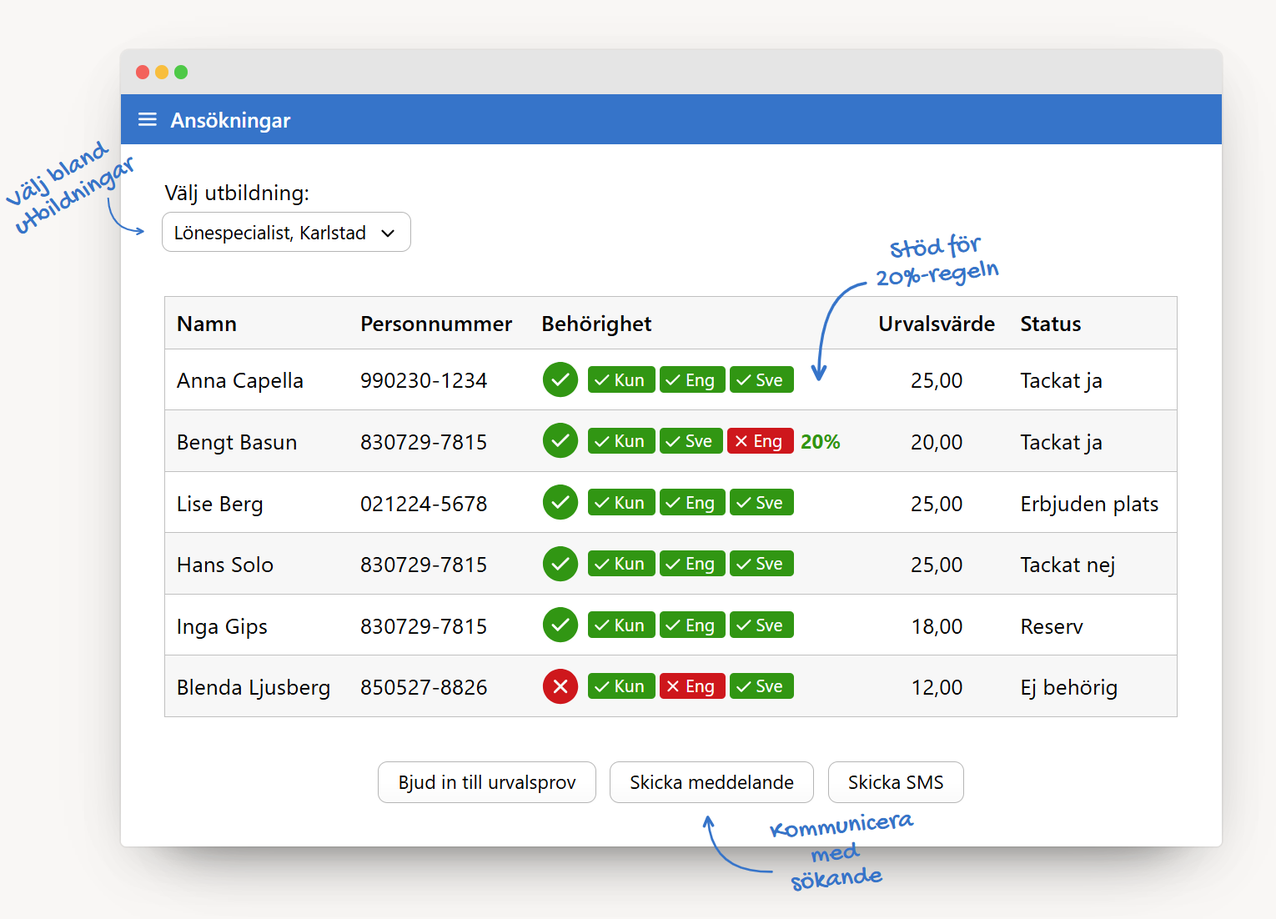
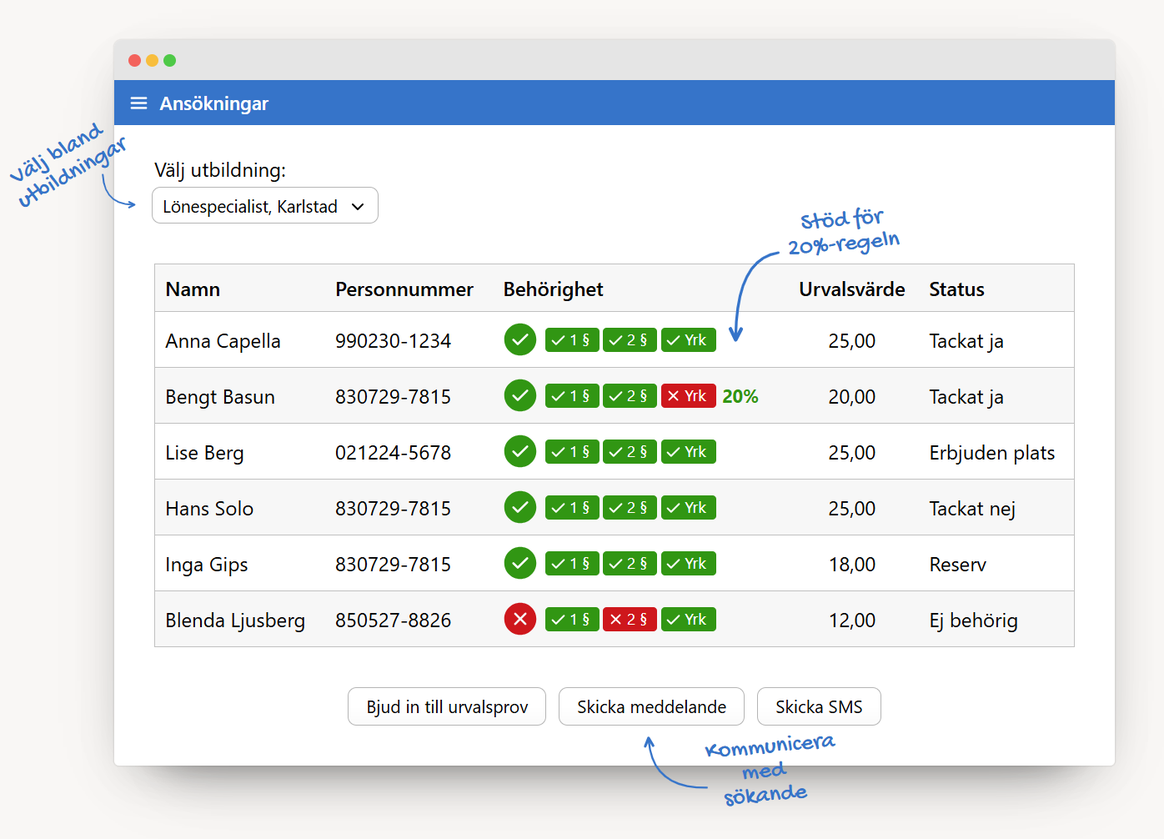
updated hero

diff --git a/docs/hero.html b/docs/hero.html
@@ -70,13 +70,13 @@
 
         .text.third {
             top: 30%;
-            left: 64%;
+            left: 63%;
             transform: rotate(-5deg);
         }
 
         .text-arrow.third svg {
             top: 34%;
-            left: 58%;
+            left: 57%;
             width: 75px;
             height: 75px;
         }
@@ -397,7 +397,7 @@
                                                 <svg xmlns="http://www.w3.org/2000/svg" viewBox="0 0 16 16" fill="currentColor" width="16" height="16">
                                                     <path d="M13.78 4.22a.75.75 0 0 1 0 1.06l-7.25 7.25a.75.75 0 0 1-1.06 0L2.22 9.28a.751.751 0 0 1 .018-1.042.751.751 0 0 1 1.042-.018L6 10.94l6.72-6.72a.75.75 0 0 1 1.06 0Z"></path>
                                                 </svg>
-                                                <span>Kun</span>
+                                                <span>1 §</span>
                                             </div>
                                         </div>
                                         <div>
@@ -405,7 +405,7 @@
                                                 <svg xmlns="http://www.w3.org/2000/svg" viewBox="0 0 16 16" fill="currentColor" width="16" height="16">
                                                     <path d="M13.78 4.22a.75.75 0 0 1 0 1.06l-7.25 7.25a.75.75 0 0 1-1.06 0L2.22 9.28a.751.751 0 0 1 .018-1.042.751.751 0 0 1 1.042-.018L6 10.94l6.72-6.72a.75.75 0 0 1 1.06 0Z"></path>
                                                 </svg>
-                                                <span>Eng</span>
+                                                <span>2 §</span>
                                             </div>
                                         </div>
                                         <div>
@@ -413,7 +413,7 @@
                                                 <svg xmlns="http://www.w3.org/2000/svg" viewBox="0 0 16 16" fill="currentColor" width="16" height="16">
                                                     <path d="M13.78 4.22a.75.75 0 0 1 0 1.06l-7.25 7.25a.75.75 0 0 1-1.06 0L2.22 9.28a.751.751 0 0 1 .018-1.042.751.751 0 0 1 1.042-.018L6 10.94l6.72-6.72a.75.75 0 0 1 1.06 0Z"></path>
                                                 </svg>
-                                                <span>Sve</span>
+                                                <span>Yrk</span>
                                             </div>
                                         </div>
                                     </div>
@@ -434,7 +434,7 @@
                                                 <svg xmlns="http://www.w3.org/2000/svg" viewBox="0 0 16 16" fill="currentColor" width="16" height="16">
                                                     <path d="M13.78 4.22a.75.75 0 0 1 0 1.06l-7.25 7.25a.75.75 0 0 1-1.06 0L2.22 9.28a.751.751 0 0 1 .018-1.042.751.751 0 0 1 1.042-.018L6 10.94l6.72-6.72a.75.75 0 0 1 1.06 0Z"></path>
                                                 </svg>
-                                                <span>Kun</span>
+                                                <span>1 §</span>
                                             </div>
                                         </div>
                                         <div>
@@ -442,7 +442,7 @@
                                                 <svg xmlns="http://www.w3.org/2000/svg" viewBox="0 0 16 16" fill="currentColor" width="16" height="16">
                                                     <path d="M13.78 4.22a.75.75 0 0 1 0 1.06l-7.25 7.25a.75.75 0 0 1-1.06 0L2.22 9.28a.751.751 0 0 1 .018-1.042.751.751 0 0 1 1.042-.018L6 10.94l6.72-6.72a.75.75 0 0 1 1.06 0Z"></path>
                                                 </svg>
-                                                <span>Sve</span>
+                                                <span>2 §</span>
                                             </div>
                                         </div>
                                         <div>
@@ -450,7 +450,7 @@
                                                 <svg xmlns="http://www.w3.org/2000/svg" viewBox="0 0 16 16" fill="currentColor" width="16" height="16">
                                                     <path d="M3.72 3.72a.75.75 0 0 1 1.06 0L8 6.94l3.22-3.22a.749.749 0 0 1 1.275.326.749.749 0 0 1-.215.734L9.06 8l3.22 3.22a.749.749 0 0 1-.326 1.275.749.749 0 0 1-.734-.215L8 9.06l-3.22 3.22a.751.751 0 0 1-1.042-.018.751.751 0 0 1-.018-1.042L6.94 8 3.72 4.78a.75.75 0 0 1 0-1.06Z"></path>
                                                 </svg>
-                                                <span>Eng</span>
+                                                <span>Yrk</span>
                                             </div>
                                         </div>
                                         <div style="font-size: .9em; color: rgb(1, 151, 1); font-weight:bold;padding-left:2px;">
@@ -474,7 +474,7 @@
                                                 <svg xmlns="http://www.w3.org/2000/svg" viewBox="0 0 16 16" fill="currentColor" width="16" height="16">
                                                     <path d="M13.78 4.22a.75.75 0 0 1 0 1.06l-7.25 7.25a.75.75 0 0 1-1.06 0L2.22 9.28a.751.751 0 0 1 .018-1.042.751.751 0 0 1 1.042-.018L6 10.94l6.72-6.72a.75.75 0 0 1 1.06 0Z"></path>
                                                 </svg>
-                                                <span>Kun</span>
+                                                <span>1 §</span>
                                             </div>
                                         </div>
                                         <div>
@@ -482,7 +482,7 @@
                                                 <svg xmlns="http://www.w3.org/2000/svg" viewBox="0 0 16 16" fill="currentColor" width="16" height="16">
                                                     <path d="M13.78 4.22a.75.75 0 0 1 0 1.06l-7.25 7.25a.75.75 0 0 1-1.06 0L2.22 9.28a.751.751 0 0 1 .018-1.042.751.751 0 0 1 1.042-.018L6 10.94l6.72-6.72a.75.75 0 0 1 1.06 0Z"></path>
                                                 </svg>
-                                                <span>Eng</span>
+                                                <span>2 §</span>
                                             </div>
                                         </div>
                                         <div>
@@ -490,7 +490,7 @@
                                                 <svg xmlns="http://www.w3.org/2000/svg" viewBox="0 0 16 16" fill="currentColor" width="16" height="16">
                                                     <path d="M13.78 4.22a.75.75 0 0 1 0 1.06l-7.25 7.25a.75.75 0 0 1-1.06 0L2.22 9.28a.751.751 0 0 1 .018-1.042.751.751 0 0 1 1.042-.018L6 10.94l6.72-6.72a.75.75 0 0 1 1.06 0Z"></path>
                                                 </svg>
-                                                <span>Sve</span>
+                                                <span>Yrk</span>
                                             </div>
                                         </div>
                                     </div>
@@ -512,7 +512,7 @@
                                                 <svg xmlns="http://www.w3.org/2000/svg" viewBox="0 0 16 16" fill="currentColor" width="16" height="16">
                                                     <path d="M13.78 4.22a.75.75 0 0 1 0 1.06l-7.25 7.25a.75.75 0 0 1-1.06 0L2.22 9.28a.751.751 0 0 1 .018-1.042.751.751 0 0 1 1.042-.018L6 10.94l6.72-6.72a.75.75 0 0 1 1.06 0Z"></path>
                                                 </svg>
-                                                <span>Kun</span>
+                                                <span>1 §</span>
                                             </div>
                                         </div>
                                         <div>
@@ -520,7 +520,7 @@
                                                 <svg xmlns="http://www.w3.org/2000/svg" viewBox="0 0 16 16" fill="currentColor" width="16" height="16">
                                                     <path d="M13.78 4.22a.75.75 0 0 1 0 1.06l-7.25 7.25a.75.75 0 0 1-1.06 0L2.22 9.28a.751.751 0 0 1 .018-1.042.751.751 0 0 1 1.042-.018L6 10.94l6.72-6.72a.75.75 0 0 1 1.06 0Z"></path>
                                                 </svg>
-                                                <span>Eng</span>
+                                                <span>2 §</span>
                                             </div>
                                         </div>
                                         <div>
@@ -528,7 +528,7 @@
                                                 <svg xmlns="http://www.w3.org/2000/svg" viewBox="0 0 16 16" fill="currentColor" width="16" height="16">
                                                     <path d="M13.78 4.22a.75.75 0 0 1 0 1.06l-7.25 7.25a.75.75 0 0 1-1.06 0L2.22 9.28a.751.751 0 0 1 .018-1.042.751.751 0 0 1 1.042-.018L6 10.94l6.72-6.72a.75.75 0 0 1 1.06 0Z"></path>
                                                 </svg>
-                                                <span>Sve</span>
+                                                <span>Yrk</span>
                                             </div>
                                         </div>
                                     </div>
@@ -549,7 +549,7 @@
                                                 <svg xmlns="http://www.w3.org/2000/svg" viewBox="0 0 16 16" fill="currentColor" width="16" height="16">
                                                     <path d="M13.78 4.22a.75.75 0 0 1 0 1.06l-7.25 7.25a.75.75 0 0 1-1.06 0L2.22 9.28a.751.751 0 0 1 .018-1.042.751.751 0 0 1 1.042-.018L6 10.94l6.72-6.72a.75.75 0 0 1 1.06 0Z"></path>
                                                 </svg>
-                                                <span>Kun</span>
+                                                <span>1 §</span>
                                             </div>
                                         </div>
                                         <div>
@@ -557,7 +557,7 @@
                                                 <svg xmlns="http://www.w3.org/2000/svg" viewBox="0 0 16 16" fill="currentColor" width="16" height="16">
                                                     <path d="M13.78 4.22a.75.75 0 0 1 0 1.06l-7.25 7.25a.75.75 0 0 1-1.06 0L2.22 9.28a.751.751 0 0 1 .018-1.042.751.751 0 0 1 1.042-.018L6 10.94l6.72-6.72a.75.75 0 0 1 1.06 0Z"></path>
                                                 </svg>
-                                                <span>Eng</span>
+                                                <span>2 §</span>
                                             </div>
                                         </div>
                                         <div>
@@ -565,7 +565,7 @@
                                                 <svg xmlns="http://www.w3.org/2000/svg" viewBox="0 0 16 16" fill="currentColor" width="16" height="16">
                                                     <path d="M13.78 4.22a.75.75 0 0 1 0 1.06l-7.25 7.25a.75.75 0 0 1-1.06 0L2.22 9.28a.751.751 0 0 1 .018-1.042.751.751 0 0 1 1.042-.018L6 10.94l6.72-6.72a.75.75 0 0 1 1.06 0Z"></path>
                                                 </svg>
-                                                <span>Sve</span>
+                                                <span>Yrk</span>
                                             </div>
                                         </div>
                                     </div>
@@ -586,7 +586,7 @@
                                                 <svg xmlns="http://www.w3.org/2000/svg" viewBox="0 0 16 16" fill="currentColor" width="16" height="16">
                                                     <path d="M13.78 4.22a.75.75 0 0 1 0 1.06l-7.25 7.25a.75.75 0 0 1-1.06 0L2.22 9.28a.751.751 0 0 1 .018-1.042.751.751 0 0 1 1.042-.018L6 10.94l6.72-6.72a.75.75 0 0 1 1.06 0Z"></path>
                                                 </svg>
-                                                <span>Kun</span>
+                                                <span>1 §</span>
                                             </div>
                                         </div>
                                         <div>
@@ -594,7 +594,7 @@
                                                 <svg xmlns="http://www.w3.org/2000/svg" viewBox="0 0 16 16" fill="currentColor" width="16" height="16">
                                                     <path d="M3.72 3.72a.75.75 0 0 1 1.06 0L8 6.94l3.22-3.22a.749.749 0 0 1 1.275.326.749.749 0 0 1-.215.734L9.06 8l3.22 3.22a.749.749 0 0 1-.326 1.275.749.749 0 0 1-.734-.215L8 9.06l-3.22 3.22a.751.751 0 0 1-1.042-.018.751.751 0 0 1-.018-1.042L6.94 8 3.72 4.78a.75.75 0 0 1 0-1.06Z"></path>
                                                 </svg>
-                                                <span>Eng</span>
+                                                <span>2 §</span>
                                             </div>
                                         </div>
                                         <div>
@@ -602,7 +602,7 @@
                                                 <svg xmlns="http://www.w3.org/2000/svg" viewBox="0 0 16 16" fill="currentColor" width="16" height="16">
                                                     <path d="M13.78 4.22a.75.75 0 0 1 0 1.06l-7.25 7.25a.75.75 0 0 1-1.06 0L2.22 9.28a.751.751 0 0 1 .018-1.042.751.751 0 0 1 1.042-.018L6 10.94l6.72-6.72a.75.75 0 0 1 1.06 0Z"></path>
                                                 </svg>
-                                                <span>Sve</span>
+                                                <span>Yrk</span>
                                             </div>
                                         </div>
                                     </div>

diff --git a/src/hero.html b/src/hero.html
@@ -70,13 +70,13 @@
 
         .text.third {
             top: 30%;
-            left: 64%;
+            left: 63%;
             transform: rotate(-5deg);
         }
 
         .text-arrow.third svg {
             top: 34%;
-            left: 58%;
+            left: 57%;
             width: 75px;
             height: 75px;
         }
@@ -397,7 +397,7 @@
                                                 <svg xmlns="http://www.w3.org/2000/svg" viewBox="0 0 16 16" fill="currentColor" width="16" height="16">
                                                     <path d="M13.78 4.22a.75.75 0 0 1 0 1.06l-7.25 7.25a.75.75 0 0 1-1.06 0L2.22 9.28a.751.751 0 0 1 .018-1.042.751.751 0 0 1 1.042-.018L6 10.94l6.72-6.72a.75.75 0 0 1 1.06 0Z"></path>
                                                 </svg>
-                                                <span>Kun</span>
+                                                <span>1 §</span>
                                             </div>
                                         </div>
                                         <div>
@@ -405,7 +405,7 @@
                                                 <svg xmlns="http://www.w3.org/2000/svg" viewBox="0 0 16 16" fill="currentColor" width="16" height="16">
                                                     <path d="M13.78 4.22a.75.75 0 0 1 0 1.06l-7.25 7.25a.75.75 0 0 1-1.06 0L2.22 9.28a.751.751 0 0 1 .018-1.042.751.751 0 0 1 1.042-.018L6 10.94l6.72-6.72a.75.75 0 0 1 1.06 0Z"></path>
                                                 </svg>
-                                                <span>Eng</span>
+                                                <span>2 §</span>
                                             </div>
                                         </div>
                                         <div>
@@ -413,7 +413,7 @@
                                                 <svg xmlns="http://www.w3.org/2000/svg" viewBox="0 0 16 16" fill="currentColor" width="16" height="16">
                                                     <path d="M13.78 4.22a.75.75 0 0 1 0 1.06l-7.25 7.25a.75.75 0 0 1-1.06 0L2.22 9.28a.751.751 0 0 1 .018-1.042.751.751 0 0 1 1.042-.018L6 10.94l6.72-6.72a.75.75 0 0 1 1.06 0Z"></path>
                                                 </svg>
-                                                <span>Sve</span>
+                                                <span>Yrk</span>
                                             </div>
                                         </div>
                                     </div>
@@ -434,7 +434,7 @@
                                                 <svg xmlns="http://www.w3.org/2000/svg" viewBox="0 0 16 16" fill="currentColor" width="16" height="16">
                                                     <path d="M13.78 4.22a.75.75 0 0 1 0 1.06l-7.25 7.25a.75.75 0 0 1-1.06 0L2.22 9.28a.751.751 0 0 1 .018-1.042.751.751 0 0 1 1.042-.018L6 10.94l6.72-6.72a.75.75 0 0 1 1.06 0Z"></path>
                                                 </svg>
-                                                <span>Kun</span>
+                                                <span>1 §</span>
                                             </div>
                                         </div>
                                         <div>
@@ -442,7 +442,7 @@
                                                 <svg xmlns="http://www.w3.org/2000/svg" viewBox="0 0 16 16" fill="currentColor" width="16" height="16">
                                                     <path d="M13.78 4.22a.75.75 0 0 1 0 1.06l-7.25 7.25a.75.75 0 0 1-1.06 0L2.22 9.28a.751.751 0 0 1 .018-1.042.751.751 0 0 1 1.042-.018L6 10.94l6.72-6.72a.75.75 0 0 1 1.06 0Z"></path>
                                                 </svg>
-                                                <span>Sve</span>
+                                                <span>2 §</span>
                                             </div>
                                         </div>
                                         <div>
@@ -450,7 +450,7 @@
                                                 <svg xmlns="http://www.w3.org/2000/svg" viewBox="0 0 16 16" fill="currentColor" width="16" height="16">
                                                     <path d="M3.72 3.72a.75.75 0 0 1 1.06 0L8 6.94l3.22-3.22a.749.749 0 0 1 1.275.326.749.749 0 0 1-.215.734L9.06 8l3.22 3.22a.749.749 0 0 1-.326 1.275.749.749 0 0 1-.734-.215L8 9.06l-3.22 3.22a.751.751 0 0 1-1.042-.018.751.751 0 0 1-.018-1.042L6.94 8 3.72 4.78a.75.75 0 0 1 0-1.06Z"></path>
                                                 </svg>
-                                                <span>Eng</span>
+                                                <span>Yrk</span>
                                             </div>
                                         </div>
                                         <div style="font-size: .9em; color: rgb(1, 151, 1); font-weight:bold;padding-left:2px;">
@@ -474,7 +474,7 @@
                                                 <svg xmlns="http://www.w3.org/2000/svg" viewBox="0 0 16 16" fill="currentColor" width="16" height="16">
                                                     <path d="M13.78 4.22a.75.75 0 0 1 0 1.06l-7.25 7.25a.75.75 0 0 1-1.06 0L2.22 9.28a.751.751 0 0 1 .018-1.042.751.751 0 0 1 1.042-.018L6 10.94l6.72-6.72a.75.75 0 0 1 1.06 0Z"></path>
                                                 </svg>
-                                                <span>Kun</span>
+                                                <span>1 §</span>
                                             </div>
                                         </div>
                                         <div>
@@ -482,7 +482,7 @@
                                                 <svg xmlns="http://www.w3.org/2000/svg" viewBox="0 0 16 16" fill="currentColor" width="16" height="16">
                                                     <path d="M13.78 4.22a.75.75 0 0 1 0 1.06l-7.25 7.25a.75.75 0 0 1-1.06 0L2.22 9.28a.751.751 0 0 1 .018-1.042.751.751 0 0 1 1.042-.018L6 10.94l6.72-6.72a.75.75 0 0 1 1.06 0Z"></path>
                                                 </svg>
-                                                <span>Eng</span>
+                                                <span>2 §</span>
                                             </div>
                                         </div>
                                         <div>
@@ -490,7 +490,7 @@
                                                 <svg xmlns="http://www.w3.org/2000/svg" viewBox="0 0 16 16" fill="currentColor" width="16" height="16">
                                                     <path d="M13.78 4.22a.75.75 0 0 1 0 1.06l-7.25 7.25a.75.75 0 0 1-1.06 0L2.22 9.28a.751.751 0 0 1 .018-1.042.751.751 0 0 1 1.042-.018L6 10.94l6.72-6.72a.75.75 0 0 1 1.06 0Z"></path>
                                                 </svg>
-                                                <span>Sve</span>
+                                                <span>Yrk</span>
                                             </div>
                                         </div>
                                     </div>
@@ -512,7 +512,7 @@
                                                 <svg xmlns="http://www.w3.org/2000/svg" viewBox="0 0 16 16" fill="currentColor" width="16" height="16">
                                                     <path d="M13.78 4.22a.75.75 0 0 1 0 1.06l-7.25 7.25a.75.75 0 0 1-1.06 0L2.22 9.28a.751.751 0 0 1 .018-1.042.751.751 0 0 1 1.042-.018L6 10.94l6.72-6.72a.75.75 0 0 1 1.06 0Z"></path>
                                                 </svg>
-                                                <span>Kun</span>
+                                                <span>1 §</span>
                                             </div>
                                         </div>
                                         <div>
@@ -520,7 +520,7 @@
                                                 <svg xmlns="http://www.w3.org/2000/svg" viewBox="0 0 16 16" fill="currentColor" width="16" height="16">
                                                     <path d="M13.78 4.22a.75.75 0 0 1 0 1.06l-7.25 7.25a.75.75 0 0 1-1.06 0L2.22 9.28a.751.751 0 0 1 .018-1.042.751.751 0 0 1 1.042-.018L6 10.94l6.72-6.72a.75.75 0 0 1 1.06 0Z"></path>
                                                 </svg>
-                                                <span>Eng</span>
+                                                <span>2 §</span>
                                             </div>
                                         </div>
                                         <div>
@@ -528,7 +528,7 @@
                                                 <svg xmlns="http://www.w3.org/2000/svg" viewBox="0 0 16 16" fill="currentColor" width="16" height="16">
                                                     <path d="M13.78 4.22a.75.75 0 0 1 0 1.06l-7.25 7.25a.75.75 0 0 1-1.06 0L2.22 9.28a.751.751 0 0 1 .018-1.042.751.751 0 0 1 1.042-.018L6 10.94l6.72-6.72a.75.75 0 0 1 1.06 0Z"></path>
                                                 </svg>
-                                                <span>Sve</span>
+                                                <span>Yrk</span>
                                             </div>
                                         </div>
                                     </div>
@@ -549,7 +549,7 @@
                                                 <svg xmlns="http://www.w3.org/2000/svg" viewBox="0 0 16 16" fill="currentColor" width="16" height="16">
                                                     <path d="M13.78 4.22a.75.75 0 0 1 0 1.06l-7.25 7.25a.75.75 0 0 1-1.06 0L2.22 9.28a.751.751 0 0 1 .018-1.042.751.751 0 0 1 1.042-.018L6 10.94l6.72-6.72a.75.75 0 0 1 1.06 0Z"></path>
                                                 </svg>
-                                                <span>Kun</span>
+                                                <span>1 §</span>
                                             </div>
                                         </div>
                                         <div>
@@ -557,7 +557,7 @@
                                                 <svg xmlns="http://www.w3.org/2000/svg" viewBox="0 0 16 16" fill="currentColor" width="16" height="16">
                                                     <path d="M13.78 4.22a.75.75 0 0 1 0 1.06l-7.25 7.25a.75.75 0 0 1-1.06 0L2.22 9.28a.751.751 0 0 1 .018-1.042.751.751 0 0 1 1.042-.018L6 10.94l6.72-6.72a.75.75 0 0 1 1.06 0Z"></path>
                                                 </svg>
-                                                <span>Eng</span>
+                                                <span>2 §</span>
                                             </div>
                                         </div>
                                         <div>
@@ -565,7 +565,7 @@
                                                 <svg xmlns="http://www.w3.org/2000/svg" viewBox="0 0 16 16" fill="currentColor" width="16" height="16">
                                                     <path d="M13.78 4.22a.75.75 0 0 1 0 1.06l-7.25 7.25a.75.75 0 0 1-1.06 0L2.22 9.28a.751.751 0 0 1 .018-1.042.751.751 0 0 1 1.042-.018L6 10.94l6.72-6.72a.75.75 0 0 1 1.06 0Z"></path>
                                                 </svg>
-                                                <span>Sve</span>
+                                                <span>Yrk</span>
                                             </div>
                                         </div>
                                     </div>
@@ -586,7 +586,7 @@
                                                 <svg xmlns="http://www.w3.org/2000/svg" viewBox="0 0 16 16" fill="currentColor" width="16" height="16">
                                                     <path d="M13.78 4.22a.75.75 0 0 1 0 1.06l-7.25 7.25a.75.75 0 0 1-1.06 0L2.22 9.28a.751.751 0 0 1 .018-1.042.751.751 0 0 1 1.042-.018L6 10.94l6.72-6.72a.75.75 0 0 1 1.06 0Z"></path>
                                                 </svg>
-                                                <span>Kun</span>
+                                                <span>1 §</span>
                                             </div>
                                         </div>
                                         <div>
@@ -594,7 +594,7 @@
                                                 <svg xmlns="http://www.w3.org/2000/svg" viewBox="0 0 16 16" fill="currentColor" width="16" height="16">
                                                     <path d="M3.72 3.72a.75.75 0 0 1 1.06 0L8 6.94l3.22-3.22a.749.749 0 0 1 1.275.326.749.749 0 0 1-.215.734L9.06 8l3.22 3.22a.749.749 0 0 1-.326 1.275.749.749 0 0 1-.734-.215L8 9.06l-3.22 3.22a.751.751 0 0 1-1.042-.018.751.751 0 0 1-.018-1.042L6.94 8 3.72 4.78a.75.75 0 0 1 0-1.06Z"></path>
                                                 </svg>
-                                                <span>Eng</span>
+                                                <span>2 §</span>
                                             </div>
                                         </div>
                                         <div>
@@ -602,7 +602,7 @@
                                                 <svg xmlns="http://www.w3.org/2000/svg" viewBox="0 0 16 16" fill="currentColor" width="16" height="16">
                                                     <path d="M13.78 4.22a.75.75 0 0 1 0 1.06l-7.25 7.25a.75.75 0 0 1-1.06 0L2.22 9.28a.751.751 0 0 1 .018-1.042.751.751 0 0 1 1.042-.018L6 10.94l6.72-6.72a.75.75 0 0 1 1.06 0Z"></path>
                                                 </svg>
-                                                <span>Sve</span>
+                                                <span>Yrk</span>
                                             </div>
                                         </div>
                                     </div>
